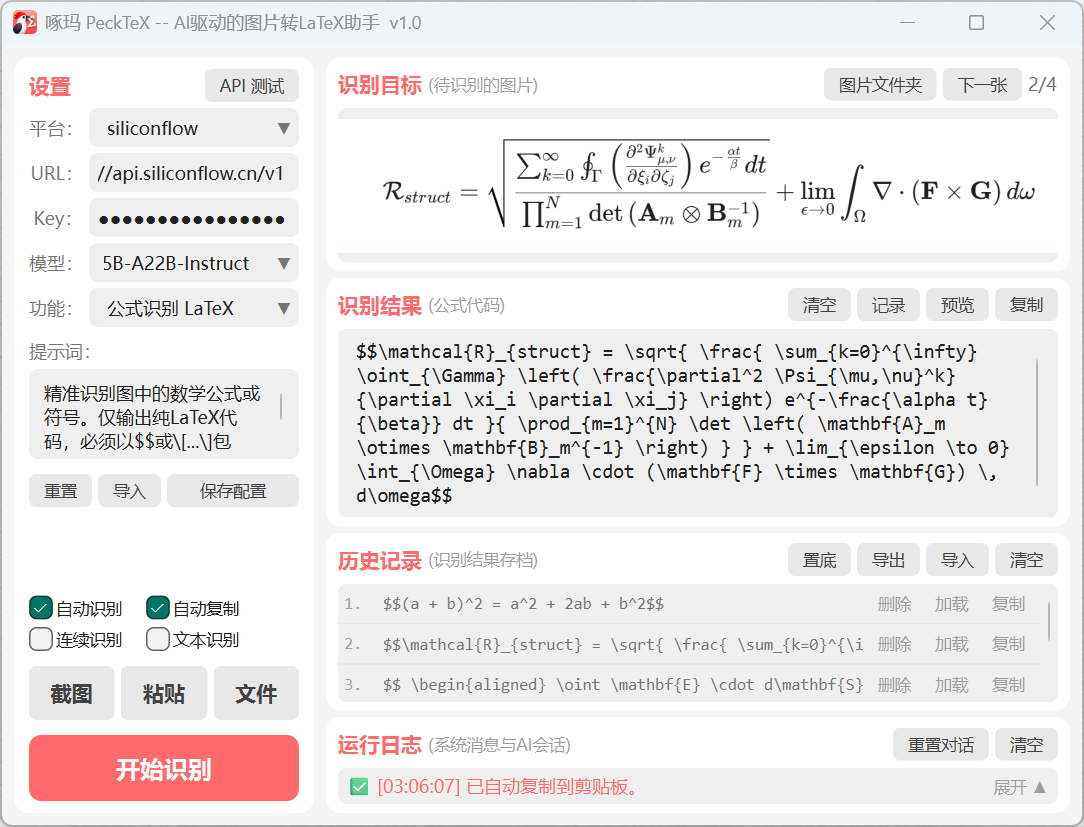
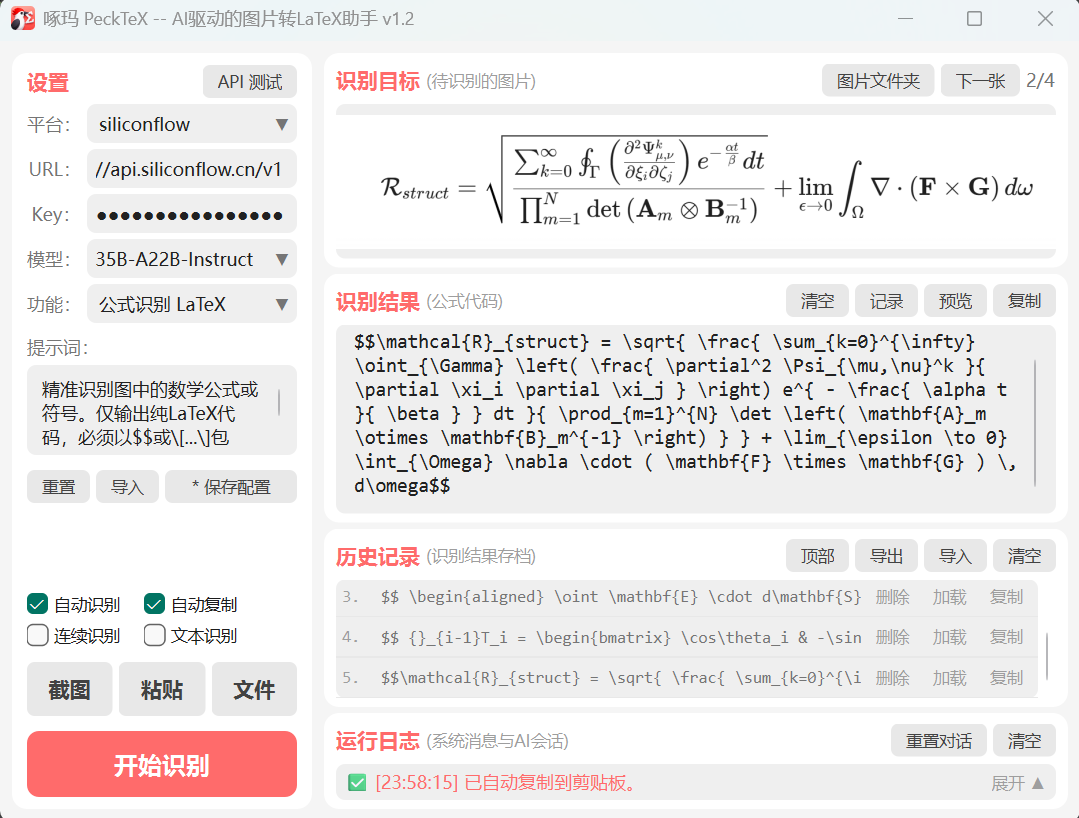
更新文档

diff --git a/docs/examples/example_renderer.html b/docs/examples/example_renderer.html
@@ -32,6 +32,7 @@
         .formula-block {
             margin: 12px 0;
             overflow-x: auto;
+            overflow-y: hidden;
             text-align: center;
         }
         .formula-text {
@@ -41,7 +42,7 @@
             font-size: 14px;
             line-height: 1.6;
         }
-        .katex-display { overflow-x: auto; padding: 4px 0; margin: 0 !important; }
+        .katex-display { overflow-x: auto; overflow-y: hidden; padding: 4px 0; margin: 0 !important; }
         .divider { height: 1px; background: #e8ecf0; }
         .source-section {
             padding: 20px 28px;
@@ -132,11 +133,11 @@
                 <span class="logo-name-en">PeckTeX</span><span class="logo-slogan-en">From Image to LaTeX, just a peck away</span>
             </div>
         </div>
-        <div class="formula-section"><div class="formula-block"><span><span class="katex-display"><span class="katex"><span class="katex-mathml"><math xmlns="http://www.w3.org/1998/Math/MathML" display="block"><semantics><mrow><msub><mi mathvariant="script">R</mi><mrow><mi>s</mi><mi>t</mi><mi>r</mi><mi>u</mi><mi>c</mi><mi>t</mi></mrow></msub><mo>=</mo><msqrt><mfrac><mrow><munderover><mo>∑</mo><mrow><mi>k</mi><mo>=</mo><mn>0</mn></mrow><mi mathvariant="normal">∞</mi></munderover><msub><mo>∮</mo><mi mathvariant="normal">Γ</mi></msub><mrow><mo fence="true">(</mo><mfrac><mrow><msup><mi mathvariant="normal">∂</mi><mn>2</mn></msup><msubsup><mi mathvariant="normal">Ψ</mi><mrow><mi>μ</mi><mo separator="true">,</mo><mi>ν</mi></mrow><mi>k</mi></msubsup></mrow><mrow><mi mathvariant="normal">∂</mi><msub><mi>ξ</mi><mi>i</mi></msub><mi mathvariant="normal">∂</mi><msub><mi>ξ</mi><mi>j</mi></msub></mrow></mfrac><mo fence="true">)</mo></mrow><msup><mi>e</mi><mrow><mo>−</mo><mfrac><mrow><mi>α</mi><mi>t</mi></mrow><mi>β</mi></mfrac></mrow></msup><mi>d</mi><mi>t</mi></mrow><mrow><munderover><mo>∏</mo><mrow><mi>m</mi><mo>=</mo><mn>1</mn></mrow><mi>N</mi></munderover><mi>det</mi><mo></mo><mrow><mo fence="true">(</mo><msub><mi mathvariant="bold">A</mi><mi>m</mi></msub><mo>⊗</mo><msubsup><mi mathvariant="bold">B</mi><mi>m</mi><mrow><mo>−</mo><mn>1</mn></mrow></msubsup><mo fence="true">)</mo></mrow></mrow></mfrac></msqrt><mo>+</mo><munder><mrow><mi>lim</mi><mo></mo></mrow><mrow><mi>ϵ</mi><mo>→</mo><mn>0</mn></mrow></munder><msub><mo>∫</mo><mi mathvariant="normal">Ω</mi></msub><mi mathvariant="normal">∇</mi><mo>⋅</mo><mo stretchy="false">(</mo><mi mathvariant="bold">F</mi><mo>×</mo><mi mathvariant="bold">G</mi><mo stretchy="false">)</mo> <mi>d</mi><mi>ω</mi></mrow><annotation encoding="application/x-tex">\mathcal{R}_{struct} = \sqrt{ \frac{ \sum_{k=0}^{\infty} \oint_{\Gamma} \left( \frac{\partial^2 \Psi_{\mu,\nu}^k}{\partial \xi_i \partial \xi_j} \right) e^{-\frac{\alpha t}{\beta}} dt }{ \prod_{m=1}^{N} \det \left( \mathbf{A}_m \otimes \mathbf{B}_m^{-1} \right) } } + \lim_{\epsilon \to 0} \int_{\Omega} \nabla \cdot (\mathbf{F} \times \mathbf{G}) \, d\omega</annotation></semantics></math></span><span class="katex-html" aria-hidden="true"><span class="base"><span class="strut" style="height: 0.8333em; vertical-align: -0.15em;"></span><span class="mord"><span class="mord mathcal">R</span><span class="msupsub"><span class="vlist-t vlist-t2"><span class="vlist-r"><span class="vlist" style="height: 0.2806em;"><span class="" style="top: -2.55em; margin-left: 0em; margin-right: 0.05em;"><span class="pstrut" style="height: 2.7em;"></span><span class="sizing reset-size6 size3 mtight"><span class="mord mtight"><span class="mord mathnormal mtight">s</span><span class="mord mathnormal mtight">t</span><span class="mord mathnormal mtight" style="margin-right: 0.0278em;">r</span><span class="mord mathnormal mtight">u</span><span class="mord mathnormal mtight">c</span><span class="mord mathnormal mtight">t</span></span></span></span></span><span class="vlist-s"></span></span><span class="vlist-r"><span class="vlist" style="height: 0.15em;"><span class=""></span></span></span></span></span></span><span class="mspace" style="margin-right: 0.2778em;"></span><span class="mrel">=</span><span class="mspace" style="margin-right: 0.2778em;"></span></span><span class="base"><span class="strut" style="height: 3.5936em; vertical-align: -1.1709em;"></span><span class="mord sqrt"><span class="vlist-t vlist-t2"><span class="vlist-r"><span class="vlist" style="height: 2.4226em;"><span class="svg-align" style="top: -5.5536em;"><span class="pstrut" style="height: 5.5536em;"></span><span class="mord" style="padding-left: 1.056em;"><span class="mord"><span class="mopen nulldelimiter"></span><span class="mfrac"><span class="vlist-t vlist-t2"><span class="vlist-r"><span class="vlist" style="height: 2.1949em;"><span class="" style="top: -2.2836em;"><span class="pstrut" style="height: 3.1548em;"></span><span class="mord"><span class="mop"><span class="mop op-symbol small-op" style="position: relative; top: 0em;">∏</span><span class="msupsub"><span class="vlist-t vlist-t2"><span class="vlist-r"><span class="vlist" style="height: 0.9812em;"><span class="" style="top: -2.4003em; margin-left: 0em; margin-right: 0.05em;"><span class="pstrut" style="height: 2.7em;"></span><span class="sizing reset-size6 size3 mtight"><span class="mord mtight"><span class="mord mathnormal mtight">m</span><span class="mrel mtight">=</span><span class="mord mtight">1</span></span></span></span><span class="" style="top: -3.2029em; margin-right: 0.05em;"><span class="pstrut" style="height: 2.7em;"></span><span class="sizing reset-size6 size3 mtight"><span class="mord mtight"><span class="mord mathnormal mtight" style="margin-right: 0.109em;">N</span></span></span></span></span><span class="vlist-s"></span></span><span class="vlist-r"><span class="vlist" style="height: 0.2997em;"><span class=""></span></span></span></span></span></span><span class="mspace" style="margin-right: 0.1667em;"></span><span class="mop">det</span><span class="mspace" style="margin-right: 0.1667em;"></span><span class="minner"><span class="mopen delimcenter" style="top: 0em;">(</span><span class="mord"><span class="mord mathbf">A</span><span class="msupsub"><span class="vlist-t vlist-t2"><span class="vlist-r"><span class="vlist" style="height: 0.1514em;"><span class="" style="top: -2.55em; margin-left: 0em; margin-right: 0.05em;"><span class="pstrut" style="height: 2.7em;"></span><span class="sizing reset-size6 size3 mtight"><span class="mord mathnormal mtight">m</span></span></span></span><span class="vlist-s"></span></span><span class="vlist-r"><span class="vlist" style="height: 0.15em;"><span class=""></span></span></span></span></span></span><span class="mspace" style="margin-right: 0.2222em;"></span><span class="mbin">⊗</span><span class="mspace" style="margin-right: 0.2222em;"></span><span class="mord"><span class="mord mathbf">B</span><span class="msupsub"><span class="vlist-t vlist-t2"><span class="vlist-r"><span class="vlist" style="height: 0.7401em;"><span class="" style="top: -2.453em; margin-left: 0em; margin-right: 0.05em;"><span class="pstrut" style="height: 2.7em;"></span><span class="sizing reset-size6 size3 mtight"><span class="mord mathnormal mtight">m</span></span></span><span class="" style="top: -2.989em; margin-right: 0.05em;"><span class="pstrut" style="height: 2.7em;"></span><span class="sizing reset-size6 size3 mtight"><span class="mord mtight"><span class="mord mtight">−</span><span class="mord mtight">1</span></span></span></span></span><span class="vlist-s"></span></span><span class="vlist-r"><span class="vlist" style="height: 0.247em;"><span class=""></span></span></span></span></span></span><span class="mclose delimcenter" style="top: 0em;">)</span></span></span></span><span class="" style="top: -3.3848em;"><span class="pstrut" style="height: 3.1548em;"></span><span class="frac-line" style="border-bottom-width: 0.04em;"></span></span><span class="" style="top: -4.1949em;"><span class="pstrut" style="height: 3.1548em;"></span><span class="mord"><span class="mop"><span class="mop op-symbol small-op" style="position: relative; top: 0em;">∑</span><span class="msupsub"><span class="vlist-t vlist-t2"><span class="vlist-r"><span class="vlist" style="height: 0.8043em;"><span class="" style="top: -2.4003em; margin-left: 0em; margin-right: 0.05em;"><span class="pstrut" style="height: 2.7em;"></span><span class="sizing reset-size6 size3 mtight"><span class="mord mtight"><span class="mord mathnormal mtight" style="margin-right: 0.0315em;">k</span><span class="mrel mtight">=</span><span class="mord mtight">0</span></span></span></span><span class="" style="top: -3.2029em; margin-right: 0.05em;"><span class="pstrut" style="height: 2.7em;"></span><span class="sizing reset-size6 size3 mtight"><span class="mord mtight"><span class="mord mtight">∞</span></span></span></span></span><span class="vlist-s"></span></span><span class="vlist-r"><span class="vlist" style="height: 0.2997em;"><span class=""></span></span></span></span></span></span><span class="mspace" style="margin-right: 0.1667em;"></span><span class="mop"><span class="mop op-symbol small-op" style="margin-right: 0.1945em; position: relative; top: -0.0006em;">∮</span><span class="msupsub"><span class="vlist-t vlist-t2"><span class="vlist-r"><span class="vlist" style="height: 0.1225em;"><span class="" style="top: -2.3442em; margin-left: -0.1945em; margin-right: 0.05em;"><span class="pstrut" style="height: 2.7em;"></span><span class="sizing reset-size6 size3 mtight"><span class="mord mtight"><span class="mord mtight">Γ</span></span></span></span></span><span class="vlist-s"></span></span><span class="vlist-r"><span class="vlist" style="height: 0.3558em;"><span class=""></span></span></span></span></span></span><span class="mspace" style="margin-right: 0.1667em;"></span><span class="minner"><span class="mopen delimcenter" style="top: 0em;"><span class="delimsizing size2">(</span></span><span class="mord"><span class="mopen nulldelimiter"></span><span class="mfrac"><span class="vlist-t vlist-t2"><span class="vlist-r"><span class="vlist" style="height: 1.1548em;"><span class="" style="top: -2.655em;"><span class="pstrut" style="height: 3em;"></span><span class="sizing reset-size6 size3 mtight"><span class="mord mtight"><span class="mord mtight" style="margin-right: 0.0556em;">∂</span><span class="mord mtight"><span class="mord mathnormal mtight" style="margin-right: 0.046em;">ξ</span><span class="msupsub"><span class="vlist-t vlist-t2"><span class="vlist-r"><span class="vlist" style="height: 0.3281em;"><span class="" style="top: -2.357em; margin-left: -0.046em; margin-right: 0.0714em;"><span class="pstrut" style="height: 2.5em;"></span><span class="sizing reset-size3 size1 mtight"><span class="mord mathnormal mtight">i</span></span></span></span><span class="vlist-s"></span></span><span class="vlist-r"><span class="vlist" style="height: 0.143em;"><span class=""></span></span></span></span></span></span><span class="mord mtight" style="margin-right: 0.0556em;">∂</span><span class="mord mtight"><span class="mord mathnormal mtight" style="margin-right: 0.046em;">ξ</span><span class="msupsub"><span class="vlist-t vlist-t2"><span class="vlist-r"><span class="vlist" style="height: 0.3281em;"><span class="" style="top: -2.357em; margin-left: -0.046em; margin-right: 0.0714em;"><span class="pstrut" style="height: 2.5em;"></span><span class="sizing reset-size3 size1 mtight"><span class="mord mathnormal mtight" style="margin-right: 0.0572em;">j</span></span></span></span><span class="vlist-s"></span></span><span class="vlist-r"><span class="vlist" style="height: 0.2819em;"><span class=""></span></span></span></span></span></span></span></span></span><span class="" style="top: -3.23em;"><span class="pstrut" style="height: 3em;"></span><span class="frac-line" style="border-bottom-width: 0.04em;"></span></span><span class="" style="top: -3.6074em;"><span class="pstrut" style="height: 3em;"></span><span class="sizing reset-size6 size3 mtight"><span class="mord mtight"><span class="mord mtight"><span class="mord mtight" style="margin-right: 0.0556em;">∂</span><span class="msupsub"><span class="vlist-t"><span class="vlist-r"><span class="vlist" style="height: 0.7463em;"><span class="" style="top: -2.786em; margin-right: 0.0714em;"><span class="pstrut" style="height: 2.5em;"></span><span class="sizing reset-size3 size1 mtight"><span class="mord mtight">2</span></span></span></span></span></span></span></span><span class="mord mtight"><span class="mord mtight">Ψ</span><span class="msupsub"><span class="vlist-t vlist-t2"><span class="vlist-r"><span class="vlist" style="height: 0.782em;"><span class="" style="top: -2.214em; margin-left: 0em; margin-right: 0.0714em;"><span class="pstrut" style="height: 2.5em;"></span><span class="sizing reset-size3 size1 mtight"><span class="mord mtight"><span class="mord mathnormal mtight">μ</span><span class="mpunct mtight">,</span><span class="mord mathnormal mtight" style="margin-right: 0.0637em;">ν</span></span></span></span><span class="" style="top: -2.786em; margin-right: 0.0714em;"><span class="pstrut" style="height: 2.5em;"></span><span class="sizing reset-size3 size1 mtight"><span class="mord mathnormal mtight" style="margin-right: 0.0315em;">k</span></span></span></span><span class="vlist-s"></span></span><span class="vlist-r"><span class="vlist" style="height: 0.4249em;"><span class=""></span></span></span></span></span></span></span></span></span></span><span class="vlist-s"></span></span><span class="vlist-r"><span class="vlist" style="height: 0.5423em;"><span class=""></span></span></span></span></span><span class="mclose nulldelimiter"></span></span><span class="mclose delimcenter" style="top: 0em;"><span class="delimsizing size2">)</span></span></span><span class="mspace" style="margin-right: 0.1667em;"></span><span class="mord"><span class="mord mathnormal">e</span><span class="msupsub"><span class="vlist-t"><span class="vlist-r"><span class="vlist" style="height: 1.0221em;"><span class="" style="top: -3.4458em; margin-right: 0.05em;"><span class="pstrut" style="height: 3em;"></span><span class="sizing reset-size6 size3 mtight"><span class="mord mtight"><span class="mord mtight">−</span><span class="mord mtight"><span class="mopen nulldelimiter sizing reset-size3 size6"></span><span class="mfrac"><span class="vlist-t vlist-t2"><span class="vlist-r"><span class="vlist" style="height: 0.8233em;"><span class="" style="top: -2.656em;"><span class="pstrut" style="height: 3em;"></span><span class="sizing reset-size3 size1 mtight"><span class="mord mtight"><span class="mord mathnormal mtight" style="margin-right: 0.0528em;">β</span></span></span></span><span class="" style="top: -3.2255em;"><span class="pstrut" style="height: 3em;"></span><span class="frac-line mtight" style="border-bottom-width: 0.049em;"></span></span><span class="" style="top: -3.384em;"><span class="pstrut" style="height: 3em;"></span><span class="sizing reset-size3 size1 mtight"><span class="mord mtight"><span class="mord mathnormal mtight" style="margin-right: 0.0037em;">α</span><span class="mord mathnormal mtight">t</span></span></span></span></span><span class="vlist-s"></span></span><span class="vlist-r"><span class="vlist" style="height: 0.4829em;"><span class=""></span></span></span></span></span><span class="mclose nulldelimiter sizing reset-size3 size6"></span></span></span></span></span></span></span></span></span></span><span class="mord mathnormal">d</span><span class="mord mathnormal">t</span></span></span></span><span class="vlist-s"></span></span><span class="vlist-r"><span class="vlist" style="height: 1.1709em;"><span class=""></span></span></span></span></span><span class="mclose nulldelimiter"></span></span></span></span><span class="" style="top: -4.3826em;"><span class="pstrut" style="height: 5.5536em;"></span><span class="hide-tail" style="min-width: 0.742em; height: 3.6336em;"><svg width="400em" height="3.6336em" viewBox="0 0 400000 3633" preserveAspectRatio="xMinYMin slice"><path d="M702 80H40000040
+        <div class="formula-section"><div class="formula-block"><span><span class="katex-display"><span class="katex"><span class="katex-mathml"><math xmlns="http://www.w3.org/1998/Math/MathML" display="block"><semantics><mrow><msub><mi mathvariant="script">R</mi><mrow><mi>s</mi><mi>t</mi><mi>r</mi><mi>u</mi><mi>c</mi><mi>t</mi></mrow></msub><mo>=</mo><msqrt><mfrac><mrow><munderover><mo>∑</mo><mrow><mi>k</mi><mo>=</mo><mn>0</mn></mrow><mi mathvariant="normal">∞</mi></munderover><msub><mo>∮</mo><mi mathvariant="normal">Γ</mi></msub><mrow><mo fence="true">(</mo><mfrac><mrow><msup><mi mathvariant="normal">∂</mi><mn>2</mn></msup><msubsup><mi mathvariant="normal">Ψ</mi><mrow><mi>μ</mi><mo separator="true">,</mo><mi>ν</mi></mrow><mi>k</mi></msubsup></mrow><mrow><mi mathvariant="normal">∂</mi><msub><mi>ξ</mi><mi>i</mi></msub><mi mathvariant="normal">∂</mi><msub><mi>ξ</mi><mi>j</mi></msub></mrow></mfrac><mo fence="true">)</mo></mrow><msup><mi>e</mi><mrow><mo>−</mo><mfrac><mrow><mi>α</mi><mi>t</mi></mrow><mi>β</mi></mfrac></mrow></msup><mi>d</mi><mi>t</mi></mrow><mrow><munderover><mo>∏</mo><mrow><mi>m</mi><mo>=</mo><mn>1</mn></mrow><mi>N</mi></munderover><mi>det</mi><mo></mo><mrow><mo fence="true">(</mo><msub><mi mathvariant="bold">A</mi><mi>m</mi></msub><mo>⊗</mo><msubsup><mi mathvariant="bold">B</mi><mi>m</mi><mrow><mo>−</mo><mn>1</mn></mrow></msubsup><mo fence="true">)</mo></mrow></mrow></mfrac></msqrt><mo>+</mo><munder><mrow><mi>lim</mi><mo></mo></mrow><mrow><mi>ϵ</mi><mo>→</mo><mn>0</mn></mrow></munder><msub><mo>∫</mo><mi mathvariant="normal">Ω</mi></msub><mi mathvariant="normal">∇</mi><mo>⋅</mo><mrow><mo fence="true">(</mo><mi mathvariant="bold">F</mi><mo>×</mo><mi mathvariant="bold">G</mi><mo fence="true">)</mo></mrow><mi>d</mi><mi>ω</mi></mrow><annotation encoding="application/x-tex">\mathcal{R}_{struct} = \sqrt{ \frac{ \sum_{k=0}^{\infty} \oint_{\Gamma} \left( \frac{ \partial^{2} \Psi_{\mu,\nu}^{k} }{ \partial \xi_{i} \partial \xi_{j} } \right) e^{-\frac{\alpha t}{\beta}} dt }{ \prod_{m=1}^{N} \det \left( \mathbf{A}_{m} \otimes \mathbf{B}_{m}^{-1} \right) } } + \lim_{\epsilon \to 0} \int_{\Omega} \nabla \cdot \left( \mathbf{F} \times \mathbf{G} \right) d\omega</annotation></semantics></math></span><span class="katex-html" aria-hidden="true"><span class="base"><span class="strut" style="height: 0.8333em; vertical-align: -0.15em;"></span><span class="mord"><span class="mord mathcal">R</span><span class="msupsub"><span class="vlist-t vlist-t2"><span class="vlist-r"><span class="vlist" style="height: 0.2806em;"><span class="" style="top: -2.55em; margin-left: 0em; margin-right: 0.05em;"><span class="pstrut" style="height: 2.7em;"></span><span class="sizing reset-size6 size3 mtight"><span class="mord mtight"><span class="mord mathnormal mtight">s</span><span class="mord mathnormal mtight">t</span><span class="mord mathnormal mtight" style="margin-right: 0.0278em;">r</span><span class="mord mathnormal mtight">u</span><span class="mord mathnormal mtight">c</span><span class="mord mathnormal mtight">t</span></span></span></span></span><span class="vlist-s"></span></span><span class="vlist-r"><span class="vlist" style="height: 0.15em;"><span class=""></span></span></span></span></span></span><span class="mspace" style="margin-right: 0.2778em;"></span><span class="mrel">=</span><span class="mspace" style="margin-right: 0.2778em;"></span></span><span class="base"><span class="strut" style="height: 3.5936em; vertical-align: -1.1709em;"></span><span class="mord sqrt"><span class="vlist-t vlist-t2"><span class="vlist-r"><span class="vlist" style="height: 2.4226em;"><span class="svg-align" style="top: -5.5536em;"><span class="pstrut" style="height: 5.5536em;"></span><span class="mord" style="padding-left: 1.056em;"><span class="mord"><span class="mopen nulldelimiter"></span><span class="mfrac"><span class="vlist-t vlist-t2"><span class="vlist-r"><span class="vlist" style="height: 2.1949em;"><span class="" style="top: -2.2836em;"><span class="pstrut" style="height: 3.1548em;"></span><span class="mord"><span class="mop"><span class="mop op-symbol small-op" style="position: relative; top: 0em;">∏</span><span class="msupsub"><span class="vlist-t vlist-t2"><span class="vlist-r"><span class="vlist" style="height: 0.9812em;"><span class="" style="top: -2.4003em; margin-left: 0em; margin-right: 0.05em;"><span class="pstrut" style="height: 2.7em;"></span><span class="sizing reset-size6 size3 mtight"><span class="mord mtight"><span class="mord mathnormal mtight">m</span><span class="mrel mtight">=</span><span class="mord mtight">1</span></span></span></span><span class="" style="top: -3.2029em; margin-right: 0.05em;"><span class="pstrut" style="height: 2.7em;"></span><span class="sizing reset-size6 size3 mtight"><span class="mord mtight"><span class="mord mathnormal mtight" style="margin-right: 0.109em;">N</span></span></span></span></span><span class="vlist-s"></span></span><span class="vlist-r"><span class="vlist" style="height: 0.2997em;"><span class=""></span></span></span></span></span></span><span class="mspace" style="margin-right: 0.1667em;"></span><span class="mop">det</span><span class="mspace" style="margin-right: 0.1667em;"></span><span class="minner"><span class="mopen delimcenter" style="top: 0em;">(</span><span class="mord"><span class="mord mathbf">A</span><span class="msupsub"><span class="vlist-t vlist-t2"><span class="vlist-r"><span class="vlist" style="height: 0.1514em;"><span class="" style="top: -2.55em; margin-left: 0em; margin-right: 0.05em;"><span class="pstrut" style="height: 2.7em;"></span><span class="sizing reset-size6 size3 mtight"><span class="mord mtight"><span class="mord mathnormal mtight">m</span></span></span></span></span><span class="vlist-s"></span></span><span class="vlist-r"><span class="vlist" style="height: 0.15em;"><span class=""></span></span></span></span></span></span><span class="mspace" style="margin-right: 0.2222em;"></span><span class="mbin">⊗</span><span class="mspace" style="margin-right: 0.2222em;"></span><span class="mord"><span class="mord mathbf">B</span><span class="msupsub"><span class="vlist-t vlist-t2"><span class="vlist-r"><span class="vlist" style="height: 0.7401em;"><span class="" style="top: -2.453em; margin-left: 0em; margin-right: 0.05em;"><span class="pstrut" style="height: 2.7em;"></span><span class="sizing reset-size6 size3 mtight"><span class="mord mtight"><span class="mord mathnormal mtight">m</span></span></span></span><span class="" style="top: -2.989em; margin-right: 0.05em;"><span class="pstrut" style="height: 2.7em;"></span><span class="sizing reset-size6 size3 mtight"><span class="mord mtight"><span class="mord mtight">−</span><span class="mord mtight">1</span></span></span></span></span><span class="vlist-s"></span></span><span class="vlist-r"><span class="vlist" style="height: 0.247em;"><span class=""></span></span></span></span></span></span><span class="mclose delimcenter" style="top: 0em;">)</span></span></span></span><span class="" style="top: -3.3848em;"><span class="pstrut" style="height: 3.1548em;"></span><span class="frac-line" style="border-bottom-width: 0.04em;"></span></span><span class="" style="top: -4.1949em;"><span class="pstrut" style="height: 3.1548em;"></span><span class="mord"><span class="mop"><span class="mop op-symbol small-op" style="position: relative; top: 0em;">∑</span><span class="msupsub"><span class="vlist-t vlist-t2"><span class="vlist-r"><span class="vlist" style="height: 0.8043em;"><span class="" style="top: -2.4003em; margin-left: 0em; margin-right: 0.05em;"><span class="pstrut" style="height: 2.7em;"></span><span class="sizing reset-size6 size3 mtight"><span class="mord mtight"><span class="mord mathnormal mtight" style="margin-right: 0.0315em;">k</span><span class="mrel mtight">=</span><span class="mord mtight">0</span></span></span></span><span class="" style="top: -3.2029em; margin-right: 0.05em;"><span class="pstrut" style="height: 2.7em;"></span><span class="sizing reset-size6 size3 mtight"><span class="mord mtight"><span class="mord mtight">∞</span></span></span></span></span><span class="vlist-s"></span></span><span class="vlist-r"><span class="vlist" style="height: 0.2997em;"><span class=""></span></span></span></span></span></span><span class="mspace" style="margin-right: 0.1667em;"></span><span class="mop"><span class="mop op-symbol small-op" style="margin-right: 0.1945em; position: relative; top: -0.0006em;">∮</span><span class="msupsub"><span class="vlist-t vlist-t2"><span class="vlist-r"><span class="vlist" style="height: 0.1225em;"><span class="" style="top: -2.3442em; margin-left: -0.1945em; margin-right: 0.05em;"><span class="pstrut" style="height: 2.7em;"></span><span class="sizing reset-size6 size3 mtight"><span class="mord mtight"><span class="mord mtight">Γ</span></span></span></span></span><span class="vlist-s"></span></span><span class="vlist-r"><span class="vlist" style="height: 0.3558em;"><span class=""></span></span></span></span></span></span><span class="mspace" style="margin-right: 0.1667em;"></span><span class="minner"><span class="mopen delimcenter" style="top: 0em;"><span class="delimsizing size2">(</span></span><span class="mord"><span class="mopen nulldelimiter"></span><span class="mfrac"><span class="vlist-t vlist-t2"><span class="vlist-r"><span class="vlist" style="height: 1.1548em;"><span class="" style="top: -2.655em;"><span class="pstrut" style="height: 3em;"></span><span class="sizing reset-size6 size3 mtight"><span class="mord mtight"><span class="mord mtight" style="margin-right: 0.0556em;">∂</span><span class="mord mtight"><span class="mord mathnormal mtight" style="margin-right: 0.046em;">ξ</span><span class="msupsub"><span class="vlist-t vlist-t2"><span class="vlist-r"><span class="vlist" style="height: 0.3281em;"><span class="" style="top: -2.357em; margin-left: -0.046em; margin-right: 0.0714em;"><span class="pstrut" style="height: 2.5em;"></span><span class="sizing reset-size3 size1 mtight"><span class="mord mtight"><span class="mord mathnormal mtight">i</span></span></span></span></span><span class="vlist-s"></span></span><span class="vlist-r"><span class="vlist" style="height: 0.143em;"><span class=""></span></span></span></span></span></span><span class="mord mtight" style="margin-right: 0.0556em;">∂</span><span class="mord mtight"><span class="mord mathnormal mtight" style="margin-right: 0.046em;">ξ</span><span class="msupsub"><span class="vlist-t vlist-t2"><span class="vlist-r"><span class="vlist" style="height: 0.3281em;"><span class="" style="top: -2.357em; margin-left: -0.046em; margin-right: 0.0714em;"><span class="pstrut" style="height: 2.5em;"></span><span class="sizing reset-size3 size1 mtight"><span class="mord mtight"><span class="mord mathnormal mtight" style="margin-right: 0.0572em;">j</span></span></span></span></span><span class="vlist-s"></span></span><span class="vlist-r"><span class="vlist" style="height: 0.2819em;"><span class=""></span></span></span></span></span></span></span></span></span><span class="" style="top: -3.23em;"><span class="pstrut" style="height: 3em;"></span><span class="frac-line" style="border-bottom-width: 0.04em;"></span></span><span class="" style="top: -3.6074em;"><span class="pstrut" style="height: 3em;"></span><span class="sizing reset-size6 size3 mtight"><span class="mord mtight"><span class="mord mtight"><span class="mord mtight" style="margin-right: 0.0556em;">∂</span><span class="msupsub"><span class="vlist-t"><span class="vlist-r"><span class="vlist" style="height: 0.7463em;"><span class="" style="top: -2.786em; margin-right: 0.0714em;"><span class="pstrut" style="height: 2.5em;"></span><span class="sizing reset-size3 size1 mtight"><span class="mord mtight"><span class="mord mtight">2</span></span></span></span></span></span></span></span></span><span class="mord mtight"><span class="mord mtight">Ψ</span><span class="msupsub"><span class="vlist-t vlist-t2"><span class="vlist-r"><span class="vlist" style="height: 0.782em;"><span class="" style="top: -2.214em; margin-left: 0em; margin-right: 0.0714em;"><span class="pstrut" style="height: 2.5em;"></span><span class="sizing reset-size3 size1 mtight"><span class="mord mtight"><span class="mord mathnormal mtight">μ</span><span class="mpunct mtight">,</span><span class="mord mathnormal mtight" style="margin-right: 0.0637em;">ν</span></span></span></span><span class="" style="top: -2.786em; margin-right: 0.0714em;"><span class="pstrut" style="height: 2.5em;"></span><span class="sizing reset-size3 size1 mtight"><span class="mord mtight"><span class="mord mathnormal mtight" style="margin-right: 0.0315em;">k</span></span></span></span></span><span class="vlist-s"></span></span><span class="vlist-r"><span class="vlist" style="height: 0.4249em;"><span class=""></span></span></span></span></span></span></span></span></span></span><span class="vlist-s"></span></span><span class="vlist-r"><span class="vlist" style="height: 0.5423em;"><span class=""></span></span></span></span></span><span class="mclose nulldelimiter"></span></span><span class="mclose delimcenter" style="top: 0em;"><span class="delimsizing size2">)</span></span></span><span class="mspace" style="margin-right: 0.1667em;"></span><span class="mord"><span class="mord mathnormal">e</span><span class="msupsub"><span class="vlist-t"><span class="vlist-r"><span class="vlist" style="height: 1.0221em;"><span class="" style="top: -3.4458em; margin-right: 0.05em;"><span class="pstrut" style="height: 3em;"></span><span class="sizing reset-size6 size3 mtight"><span class="mord mtight"><span class="mord mtight">−</span><span class="mord mtight"><span class="mopen nulldelimiter sizing reset-size3 size6"></span><span class="mfrac"><span class="vlist-t vlist-t2"><span class="vlist-r"><span class="vlist" style="height: 0.8233em;"><span class="" style="top: -2.656em;"><span class="pstrut" style="height: 3em;"></span><span class="sizing reset-size3 size1 mtight"><span class="mord mtight"><span class="mord mathnormal mtight" style="margin-right: 0.0528em;">β</span></span></span></span><span class="" style="top: -3.2255em;"><span class="pstrut" style="height: 3em;"></span><span class="frac-line mtight" style="border-bottom-width: 0.049em;"></span></span><span class="" style="top: -3.384em;"><span class="pstrut" style="height: 3em;"></span><span class="sizing reset-size3 size1 mtight"><span class="mord mtight"><span class="mord mathnormal mtight" style="margin-right: 0.0037em;">α</span><span class="mord mathnormal mtight">t</span></span></span></span></span><span class="vlist-s"></span></span><span class="vlist-r"><span class="vlist" style="height: 0.4829em;"><span class=""></span></span></span></span></span><span class="mclose nulldelimiter sizing reset-size3 size6"></span></span></span></span></span></span></span></span></span></span><span class="mord mathnormal">d</span><span class="mord mathnormal">t</span></span></span></span><span class="vlist-s"></span></span><span class="vlist-r"><span class="vlist" style="height: 1.1709em;"><span class=""></span></span></span></span></span><span class="mclose nulldelimiter"></span></span></span></span><span class="" style="top: -4.3826em;"><span class="pstrut" style="height: 5.5536em;"></span><span class="hide-tail" style="min-width: 0.742em; height: 3.6336em;"><svg width="400em" height="3.6336em" viewBox="0 0 400000 3633" preserveAspectRatio="xMinYMin slice"><path d="M702 80H40000040
 H742v3499l-4 4-4 4c-.667.7 -2 1.5-4 2.5s-4.167 1.833-6.5 2.5-5.5 1-9.5 1
 h-12l-28-84c-16.667-52-96.667 -294.333-240-727l-212 -643 -85 170
 c-4-3.333-8.333-7.667-13 -13l-13-13l77-155 77-156c66 199.333 139 419.667
-219 661 l218 661zM702 80H400000v40H742z"></path></svg></span></span></span><span class="vlist-s"></span></span><span class="vlist-r"><span class="vlist" style="height: 1.1709em;"><span class=""></span></span></span></span></span><span class="mspace" style="margin-right: 0.2222em;"></span><span class="mbin">+</span><span class="mspace" style="margin-right: 0.2222em;"></span></span><span class="base"><span class="strut" style="height: 2.2719em; vertical-align: -0.9119em;"></span><span class="mop op-limits"><span class="vlist-t vlist-t2"><span class="vlist-r"><span class="vlist" style="height: 0.6944em;"><span class="" style="top: -2.3829em; margin-left: 0em;"><span class="pstrut" style="height: 3em;"></span><span class="sizing reset-size6 size3 mtight"><span class="mord mtight"><span class="mord mathnormal mtight">ϵ</span><span class="mrel mtight">→</span><span class="mord mtight">0</span></span></span></span><span class="" style="top: -3em;"><span class="pstrut" style="height: 3em;"></span><span class=""><span class="mop">lim</span></span></span></span><span class="vlist-s"></span></span><span class="vlist-r"><span class="vlist" style="height: 0.7171em;"><span class=""></span></span></span></span></span><span class="mspace" style="margin-right: 0.1667em;"></span><span class="mop"><span class="mop op-symbol large-op" style="margin-right: 0.4445em; position: relative; top: -0.0011em;">∫</span><span class="msupsub"><span class="vlist-t vlist-t2"><span class="vlist-r"><span class="vlist"><span class="" style="top: -1.7881em; margin-left: -0.4445em; margin-right: 0.05em;"><span class="pstrut" style="height: 2.7em;"></span><span class="sizing reset-size6 size3 mtight"><span class="mord mtight"><span class="mord mtight">Ω</span></span></span></span></span><span class="vlist-s"></span></span><span class="vlist-r"><span class="vlist" style="height: 0.9119em;"><span class=""></span></span></span></span></span></span><span class="mspace" style="margin-right: 0.1667em;"></span><span class="mord">∇</span><span class="mspace" style="margin-right: 0.2222em;"></span><span class="mbin">⋅</span><span class="mspace" style="margin-right: 0.2222em;"></span></span><span class="base"><span class="strut" style="height: 1em; vertical-align: -0.25em;"></span><span class="mopen">(</span><span class="mord mathbf">F</span><span class="mspace" style="margin-right: 0.2222em;"></span><span class="mbin">×</span><span class="mspace" style="margin-right: 0.2222em;"></span></span><span class="base"><span class="strut" style="height: 1em; vertical-align: -0.25em;"></span><span class="mord mathbf">G</span><span class="mclose">)</span><span class="mspace" style="margin-right: 0.1667em;"></span><span class="mord mathnormal">d</span><span class="mord mathnormal" style="margin-right: 0.0359em;">ω</span></span></span></span></span></span></div></div>
+219 661 l218 661zM702 80H400000v40H742z"></path></svg></span></span></span><span class="vlist-s"></span></span><span class="vlist-r"><span class="vlist" style="height: 1.1709em;"><span class=""></span></span></span></span></span><span class="mspace" style="margin-right: 0.2222em;"></span><span class="mbin">+</span><span class="mspace" style="margin-right: 0.2222em;"></span></span><span class="base"><span class="strut" style="height: 2.2719em; vertical-align: -0.9119em;"></span><span class="mop op-limits"><span class="vlist-t vlist-t2"><span class="vlist-r"><span class="vlist" style="height: 0.6944em;"><span class="" style="top: -2.3829em; margin-left: 0em;"><span class="pstrut" style="height: 3em;"></span><span class="sizing reset-size6 size3 mtight"><span class="mord mtight"><span class="mord mathnormal mtight">ϵ</span><span class="mrel mtight">→</span><span class="mord mtight">0</span></span></span></span><span class="" style="top: -3em;"><span class="pstrut" style="height: 3em;"></span><span class=""><span class="mop">lim</span></span></span></span><span class="vlist-s"></span></span><span class="vlist-r"><span class="vlist" style="height: 0.7171em;"><span class=""></span></span></span></span></span><span class="mspace" style="margin-right: 0.1667em;"></span><span class="mop"><span class="mop op-symbol large-op" style="margin-right: 0.4445em; position: relative; top: -0.0011em;">∫</span><span class="msupsub"><span class="vlist-t vlist-t2"><span class="vlist-r"><span class="vlist"><span class="" style="top: -1.7881em; margin-left: -0.4445em; margin-right: 0.05em;"><span class="pstrut" style="height: 2.7em;"></span><span class="sizing reset-size6 size3 mtight"><span class="mord mtight"><span class="mord mtight">Ω</span></span></span></span></span><span class="vlist-s"></span></span><span class="vlist-r"><span class="vlist" style="height: 0.9119em;"><span class=""></span></span></span></span></span></span><span class="mspace" style="margin-right: 0.1667em;"></span><span class="mord">∇</span><span class="mspace" style="margin-right: 0.2222em;"></span><span class="mbin">⋅</span><span class="mspace" style="margin-right: 0.2222em;"></span></span><span class="base"><span class="strut" style="height: 1em; vertical-align: -0.25em;"></span><span class="minner"><span class="mopen delimcenter" style="top: 0em;">(</span><span class="mord mathbf">F</span><span class="mspace" style="margin-right: 0.2222em;"></span><span class="mbin">×</span><span class="mspace" style="margin-right: 0.2222em;"></span><span class="mord mathbf">G</span><span class="mclose delimcenter" style="top: 0em;">)</span></span><span class="mspace" style="margin-right: 0.1667em;"></span><span class="mord mathnormal">d</span><span class="mord mathnormal" style="margin-right: 0.0359em;">ω</span></span></span></span></span></span></div></div>
         <div class="divider"></div>
         <div class="source-section">
             <div class="source-header">
@@ -145,7 +146,7 @@ c-4-3.333-8.333-7.667-13 -13l-13-13l77-155 77-156c66 199.333 139 419.667
                 <button class="btn-copy" onclick="downloadPage()">下载页面</button>
                 <button class="btn-copy" onclick="copyLatex()">复制源码</button>
             </div>
-            <textarea class="source-code" id="sourceCode" spellcheck="false">$$\mathcal{R}_{struct} = \sqrt{ \frac{ \sum_{k=0}^{\infty} \oint_{\Gamma} \left( \frac{\partial^2 \Psi_{\mu,\nu}^k}{\partial \xi_i \partial \xi_j} \right) e^{-\frac{\alpha t}{\beta}} dt }{ \prod_{m=1}^{N} \det \left( \mathbf{A}_m \otimes \mathbf{B}_m^{-1} \right) } } + \lim_{\epsilon \to 0} \int_{\Omega} \nabla \cdot (\mathbf{F} \times \mathbf{G}) \, d\omega$$</textarea>
+            <textarea class="source-code" id="sourceCode" spellcheck="false">$$\mathcal{R}_{struct} = \sqrt{ \frac{ \sum_{k=0}^{\infty} \oint_{\Gamma} \left( \frac{ \partial^{2} \Psi_{\mu,\nu}^{k} }{ \partial \xi_{i} \partial \xi_{j} } \right) e^{-\frac{\alpha t}{\beta}} dt }{ \prod_{m=1}^{N} \det \left( \mathbf{A}_{m} \otimes \mathbf{B}_{m}^{-1} \right) } } + \lim_{\epsilon \to 0} \int_{\Omega} \nabla \cdot \left( \mathbf{F} \times \mathbf{G} \right) d\omega$$</textarea>
             <div class="source-hint">可直接编辑 LaTeX 源码，按 Ctrl/Cmd+Enter 可快捷重渲染</div>
         </div>
     </div>
